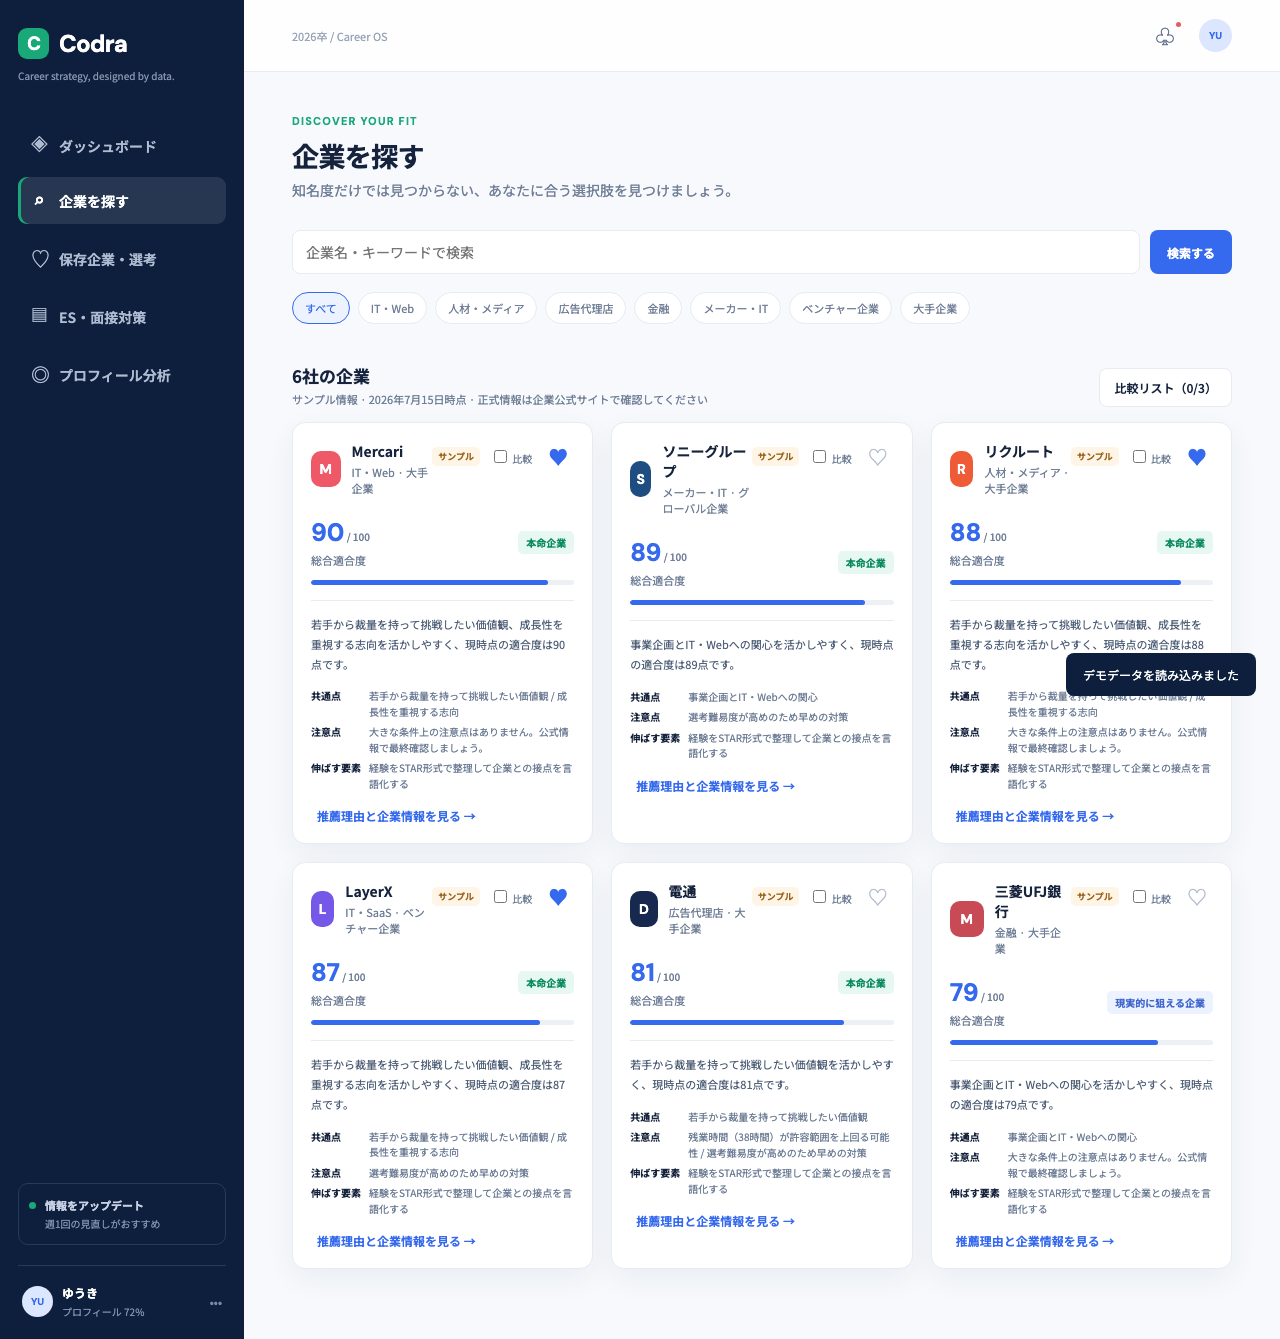
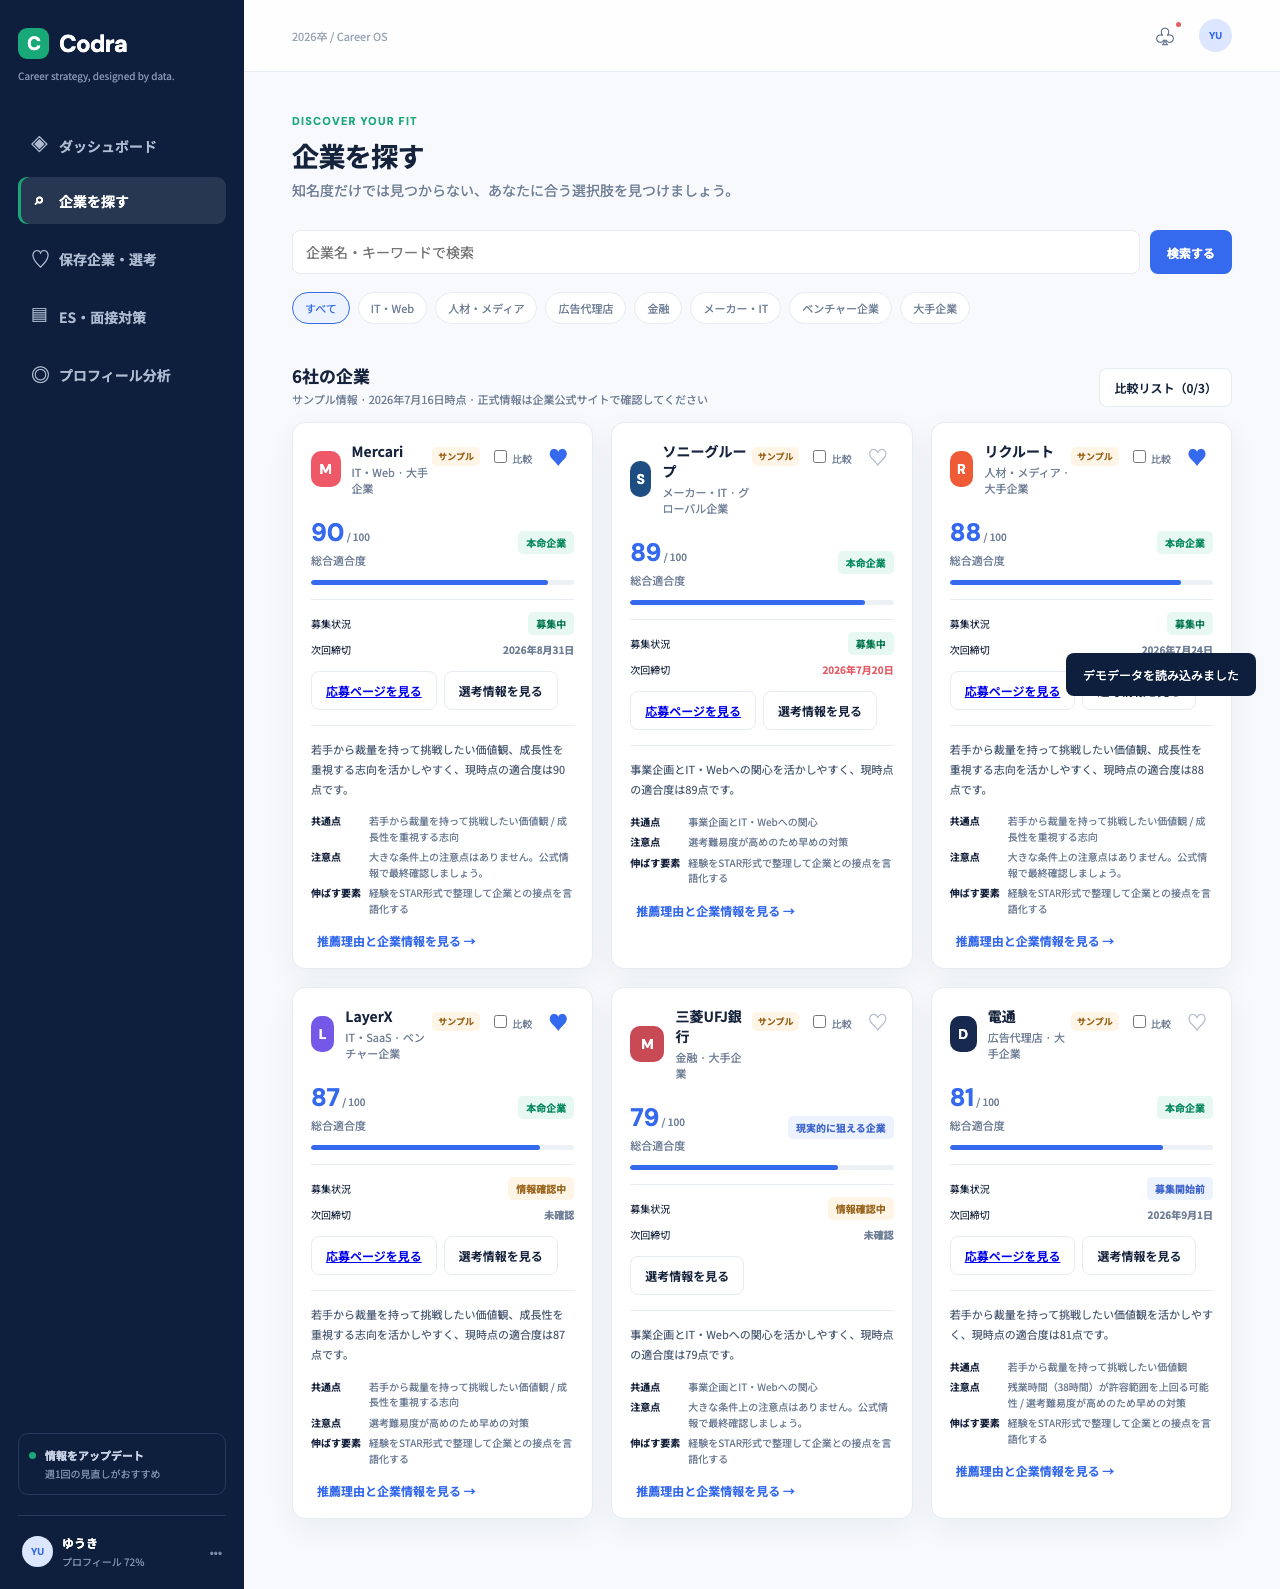
Fix profile navigation and add recruitment status

diff --git a/tests/recruitment.spec.js b/tests/recruitment.spec.js
@@ -1,0 +1,103 @@
+const { test, expect } = require('@playwright/test');
+
+async function openClean(page, profile = {}) {
+  await page.goto('/');
+  await page.evaluate(profileData => {
+    localStorage.clear();
+    if (profileData) localStorage.setItem('codra_profile', JSON.stringify({
+      registered: true,
+      liberal: '文系',
+      grade: '大学3年',
+      industries: ['IT・Web'],
+      jobTypes: ['事業企画'],
+      locations: ['東京'],
+      strengths: '課題を見つけて改善する力',
+      activities: '学生団体で業務改善',
+      ...profileData
+    }));
+  }, profile);
+  await page.reload();
+  await page.waitForLoadState('domcontentloaded');
+}
+
+test.describe('Codra profile, navigation, and recruitment journeys', () => {
+  test('profile opens, edits, saves, and survives reload', async ({ page }) => {
+    await openClean(page, { strengths: '保存前の強み' });
+    const profileNav = page.getByTestId('profile-nav');
+    await expect(profileNav).toHaveCount(1);
+    await profileNav.click();
+    await expect(page.getByRole('heading', { name: 'プロフィール分析' })).toBeVisible();
+    await page.locator('#edit-profile').click();
+    await page.locator('#profile-form').getByRole('button', { name: '次へ' }).click();
+    await page.locator('#profile-form').getByRole('button', { name: '次へ' }).click();
+    const strengths = page.locator('textarea[name="strengths"]');
+    await strengths.fill('ユーザーの声をもとに改善を進める力');
+    await page.getByRole('button', { name: 'あなたに合う企業を探す' }).click();
+    await expect(page.getByText('プロフィールを保存しました。推薦を更新しました')).toBeVisible();
+    await page.reload();
+    await profileNav.click();
+    await page.locator('#edit-profile').click();
+    await page.locator('#profile-form').getByRole('button', { name: '次へ' }).click();
+    await page.locator('#profile-form').getByRole('button', { name: '次へ' }).click();
+    await expect(page.locator('textarea[name="strengths"]')).toHaveValue('ユーザーの声をもとに改善を進める力');
+  });
+
+  test('mobile menu closes by toggle, overlay, Escape, and navigation', async ({ page }) => {
+    await page.setViewportSize({ width: 375, height: 800 });
+    await openClean(page);
+    const menu = page.getByTestId('mobile-menu');
+    const sidebar = page.locator('#main-sidebar');
+    const overlay = page.getByTestId('sidebar-overlay');
+    await menu.click();
+    await expect(sidebar).toHaveClass(/open/);
+    await expect(menu).toHaveAttribute('aria-expanded', 'true');
+    await menu.click();
+    await expect(sidebar).not.toHaveClass(/open/);
+    await expect(menu).toHaveAttribute('aria-expanded', 'false');
+    await menu.click();
+    await overlay.click({ position: { x: 350, y: 400 } });
+    await expect(sidebar).not.toHaveClass(/open/);
+    await menu.click();
+    await page.keyboard.press('Escape');
+    await expect(sidebar).not.toHaveClass(/open/);
+    await menu.click();
+    const discoverNav = sidebar.locator('button[data-view="discover"]');
+    await expect(discoverNav).toHaveCount(1);
+    await discoverNav.click();
+    await expect(sidebar).not.toHaveClass(/open/);
+  });
+
+  test('recruitment status appears on cards, detail, and dashboard deadlines', async ({ page }) => {
+    await openClean(page);
+    await page.getByRole('button', { name: '⌕ 企業を探す' }).click();
+    await expect(page.getByTestId('recruitment-card').first()).toBeVisible();
+    await expect(page.getByText('募集中').first()).toBeVisible();
+    const mercariCard = page.getByTestId('recruitment-card').filter({ hasText: 'Mercari' });
+    await expect(mercariCard).toHaveCount(1);
+    const recruitmentDetail = mercariCard.locator('button[data-recruitment-detail]');
+    await expect(recruitmentDetail).toHaveCount(1);
+    await recruitmentDetail.click();
+    await expect(page.getByRole('heading', { name: 'Mercari' })).toBeVisible();
+    await expect(page.locator('[data-tab="selection"]')).toHaveCount(1);
+    await page.locator('[data-tab="selection"]').click();
+    await expect(page.getByRole('heading', { name: '現在の募集状況' })).toBeVisible();
+    const applyLink = page.getByRole('link', { name: '応募ページを見る' });
+    await expect(applyLink).toBeVisible();
+    await expect(applyLink).toHaveAttribute('target', '_blank');
+    await expect(applyLink).toHaveAttribute('rel', 'noopener noreferrer');
+    await page.getByRole('button', { name: '◈ ダッシュボード' }).click();
+    await expect(page.getByText('企業募集：本選考').first()).toBeVisible();
+    await expect(page.getByText('企業募集中').first()).toBeVisible();
+  });
+
+  test('company without recruitment data shows a safe checking state', async ({ page }) => {
+    await openClean(page);
+    await page.getByRole('button', { name: '⌕ 企業を探す' }).click();
+    const mufgCard = page.getByTestId('recruitment-card').filter({ hasText: '三菱UFJ銀行' });
+    await expect(mufgCard).toHaveCount(1);
+    await mufgCard.locator('.detail-link').click();
+    await page.locator('[data-tab="selection"]').click();
+    await expect(page.getByText('情報確認中').first()).toBeVisible();
+    await expect(page.getByText('現在表示できる募集要項はありません。')).toBeVisible();
+  });
+});

diff --git a/recruitment.js b/recruitment.js
@@ -1,0 +1,96 @@
+(() => {
+  const today = () => new Date().toISOString().slice(0, 10);
+  const escapeHtml = value => String(value ?? '').replace(/[&<>'"]/g, char => ({'&':'&amp;','<':'&lt;','>':'&gt;',"'":'&#39;','"':'&quot;'}[char]));
+  const safeUrl = value => /^https?:\/\//i.test(String(value || '')) ? String(value) : '';
+  const urlLink = (url, label) => {
+    const href = safeUrl(url);
+    return href ? `<a class="secondary-btn" href="${escapeHtml(href)}" target="_blank" rel="noopener noreferrer">${escapeHtml(label)}</a>` : '';
+  };
+
+  const recruitmentData = {
+    mercari: {status:'open',label:'募集中',category:'本選考',deadline:'2026-08-31',nextDeadline:'2026-08-31',stages:['ES提出','適性検査','一次面接','最終面接'],applicationUrl:'https://example.com/codra-demo/mercari/apply',requirementsUrl:'https://example.com/codra-demo/mercari/requirements',officialRecruitUrl:'https://example.com/codra-demo/mercari/careers',sourceName:'企業公式採用ページ（サンプル）',sourceUrl:'https://example.com/codra-demo/mercari/careers',checkedAt:'2026-07-16',openings:[{name:'新卒総合職',category:'本選考',deadline:'2026-08-31'}]},
+    recruit: {status:'open',label:'募集中',category:'本選考',deadline:'2026-07-24',nextDeadline:'2026-07-24',stages:['ES提出','Webテスト','複数回面接','最終面接'],applicationUrl:'https://example.com/codra-demo/recruit/apply',requirementsUrl:'https://example.com/codra-demo/recruit/requirements',officialRecruitUrl:'https://example.com/codra-demo/recruit/careers',sourceName:'企業公式採用ページ（サンプル）',sourceUrl:'https://example.com/codra-demo/recruit/careers',checkedAt:'2026-07-16',openings:[{name:'ビジネス職',category:'本選考',deadline:'2026-07-24'}]},
+    layerx: {status:'checking',label:'情報確認中',category:'本選考',deadline:null,nextDeadline:null,stages:['エントリー','面接','最終面接'],applicationUrl:'https://example.com/codra-demo/layerx/apply',requirementsUrl:'https://example.com/codra-demo/layerx/requirements',officialRecruitUrl:'https://example.com/codra-demo/layerx/careers',sourceName:'サンプル情報（公式確認待ち）',sourceUrl:'https://example.com/codra-demo/layerx/careers',checkedAt:'2026-07-16',openings:[]},
+    dentsu: {status:'preopen',label:'募集開始前',category:'本選考',deadline:'2026-09-01',nextDeadline:'2026-09-01',stages:['エントリー','ES提出','面接'],applicationUrl:'https://example.com/codra-demo/dentsu/apply',requirementsUrl:'https://example.com/codra-demo/dentsu/requirements',officialRecruitUrl:'https://example.com/codra-demo/dentsu/careers',sourceName:'サンプル情報（募集開始前の想定）',sourceUrl:'https://example.com/codra-demo/dentsu/careers',checkedAt:'2026-07-16',openings:[{name:'ビジネス職',category:'本選考',deadline:'2026-09-01'}]},
+    sony: {status:'open',label:'募集中',category:'インターン',deadline:'2026-07-20',nextDeadline:'2026-07-20',stages:['エントリー','ES提出','適性検査'],applicationUrl:'https://example.com/codra-demo/sony/apply',requirementsUrl:'https://example.com/codra-demo/sony/requirements',officialRecruitUrl:'https://example.com/codra-demo/sony/careers',sourceName:'サンプル情報（公式確認待ち）',sourceUrl:'https://example.com/codra-demo/sony/careers',checkedAt:'2026-07-16',openings:[{name:'夏季インターン',category:'インターン',deadline:'2026-07-20'}]}
+  };
+  Object.entries(recruitmentData).forEach(([id, recruitment]) => { const target = company(id); if (target) target.recruitment = recruitment; });
+
+  const normalizedRecruitment = c => {
+    const data = c?.recruitment;
+    if (!data || typeof data !== 'object') return {status:'checking',label:'情報確認中',category:'その他',deadline:null,nextDeadline:null,stages:[],openings:[],checkedAt:null};
+    const deadline = data.deadline && data.deadline < today() ? null : data.deadline;
+    if (data.deadline && data.deadline < today()) return {...data,status:'closed',label:'受付終了',deadline:data.deadline,openings:[]};
+    return {...data,deadline};
+  };
+  const daysUntil = date => date ? Math.ceil((new Date(`${date}T23:59:59`) - new Date()) / 86400000) : null;
+  const deadlineText = date => date ? new Date(`${date}T00:00:00`).toLocaleDateString('ja-JP',{year:'numeric',month:'long',day:'numeric'}) : '未確認';
+  const recruitmentTone = status => status === 'open' ? 'open' : status === 'closed' ? 'closed' : status === 'preopen' ? 'preopen' : 'checking';
+  const recruitmentBadge = c => { const r = normalizedRecruitment(c); return `<span class="tag recruitment-badge ${recruitmentTone(r.status)}" data-recruitment-status="${escapeHtml(r.status)}">${escapeHtml(r.label)}</span>`; };
+  const deadlineClass = date => daysUntil(date) !== null && daysUntil(date) <= 7 ? 'deadline-warning' : 'deadline-normal';
+  const deadlineValue = date => date ? `<span class="${deadlineClass(date)}">${escapeHtml(deadlineText(date))}</span>` : '<span class="deadline-normal">情報確認中</span>';
+
+  function recruitmentMini(c) {
+    const r = normalizedRecruitment(c);
+    return `<div class="recruitment-mini"><div class="recruitment-mini-row"><span>募集状況</span>${recruitmentBadge(c)}</div><div class="recruitment-mini-row"><span>次回締切</span><span class="${deadlineClass(r.nextDeadline)}">${r.nextDeadline ? escapeHtml(deadlineText(r.nextDeadline)) : '未確認'}</span></div><div class="recruitment-actions">${urlLink(r.applicationUrl,'応募ページを見る')}<button class="secondary-btn" data-recruitment-detail="${escapeHtml(c.id)}">選考情報を見る</button></div></div>`;
+  }
+
+  function recruitmentSelectionHtml(c) {
+    const r = normalizedRecruitment(c);
+    const openings = Array.isArray(r.openings) ? r.openings : [];
+    return `<div class="grid grid-2"><div class="card recruitment-summary"><div class="recruitment-header"><h3>現在の募集状況</h3>${recruitmentBadge(c)}</div><div class="recruitment-meta"><div><small>募集状況</small><strong>${escapeHtml(r.label)}</strong></div><div><small>選考区分</small><strong>${escapeHtml(r.category)}</strong></div><div><small>応募締切</small><strong>${deadlineValue(r.deadline)}</strong></div><div><small>次回締切</small><strong>${deadlineValue(r.nextDeadline)}</strong></div></div>${openings.length ? `<h3>募集中の選考一覧</h3><div class="selection-list">${openings.map(item=>`<div class="selection-row"><div><strong>${escapeHtml(item.name || '選考情報')}</strong><small>${escapeHtml(item.category || r.category)} · 締切 ${escapeHtml(deadlineText(item.deadline))}</small></div>${recruitmentBadge(c)}</div>`).join('')}</div>` : `<div class="recruitment-empty">現在表示できる募集要項はありません。情報確認中のため、公式採用ページで最新情報を確認してください。</div>`}</div><div class="card recruitment-summary"><h3>選考ステップ</h3>${r.stages.length ? `<div class="recruitment-stages">${r.stages.map((stage,index)=>`<span class="chip">${index+1}. ${escapeHtml(stage)}</span>`).join('')}</div>` : '<div class="recruitment-empty">選考ステップは情報確認中です。</div>'}<h3 style="margin-top:24px">応募・公式リンク</h3><div class="recruitment-links">${urlLink(r.applicationUrl,'応募ページを見る')}${urlLink(r.requirementsUrl,'募集要項を見る')}${urlLink(r.officialRecruitUrl,'企業公式採用ページ')}</div><div class="recruitment-source"><strong>情報ソース：</strong>${escapeHtml(r.sourceName || '確認中')}<br><strong>情報の確認日：</strong>${escapeHtml(r.checkedAt || '未確認')}<br><span>リンク先はデモ用サンプルです。実際の応募はできません。</span></div></div></div><div class="notice">企業の募集状況はサンプル情報です。締切・募集条件は変わる可能性があるため、応募前に必ず企業公式サイトで最新情報を確認してください。</div>`;
+  }
+
+  function codraRecruitmentCard(c) {
+    const s = c.scores || scores(c), r = c.rec || recommendation(c);
+    return `<article class="card company-card" data-testid="recruitment-card" data-recruitment-card="${escapeHtml(c.id)}"><div class="company-top"><div class="company-brand">${logo(c)}<div><div class="company-name">${escapeHtml(c.name)}</div><div class="company-meta">${escapeHtml(c.category)} · ${escapeHtml(c.companySize)}</div></div></div><div class="card-actions">${dataBadge('sample')}<label class="compare-check"><input type="checkbox" data-compare="${escapeHtml(c.id)}" ${state.compareIds.includes(c.id)?'checked':''}/> 比較</label><button class="save-btn ${state.saved.has(c.id)?'saved':''}" data-save="${escapeHtml(c.id)}" aria-label="${state.saved.has(c.id)?'保存を解除':'企業を保存'}">${state.saved.has(c.id)?'♥':'♡'}</button></div></div><div class="score-row"><div><div class="score">${s.total}<small> / 100</small></div><div class="company-meta">総合適合度</div></div><span class="tag ${s.total>=80?'tag-green':s.total>=60?'tag-blue':'tag-amber'}">${escapeHtml(c.classification||classify(s.total))}</span></div><div class="score-bar"><i style="width:${s.total}%"></i></div>${recruitmentMini(c)}<p class="reason">${escapeHtml(r.main)}</p><div class="recommend-details"><strong>共通点</strong><span>${escapeHtml(r.matches.join(' / '))}</span><strong>注意点</strong><span>${escapeHtml(r.cautions.join(' / '))}</span><strong>伸ばす要素</strong><span>${escapeHtml(r.next.join(' / '))}</span></div><button class="link-btn detail-link" data-company="${escapeHtml(c.id)}">推薦理由と企業情報を見る →</button></article>`;
+  }
+
+  const recruitmentPriority = c => { const status = normalizedRecruitment(c).status; return status === 'open' ? 0 : status === 'checking' ? 1 : status === 'preopen' ? 2 : 3; };
+  const rankedWithRecruitment = () => ranked().sort((a,b) => recruitmentPriority(a)-recruitmentPriority(b) || b.scores.total-a.scores.total);
+  const upcomingRecruitments = () => rankedWithRecruitment().filter(c => ['open','preopen'].includes(normalizedRecruitment(c).status) && normalizedRecruitment(c).nextDeadline).sort((a,b) => normalizedRecruitment(a).nextDeadline.localeCompare(normalizedRecruitment(b).nextDeadline));
+
+  function codraDashboard() {
+    const list = rankedWithRecruitment(), pc = completion(), first = !state.profile.registered, recruitList = upcomingRecruitments();
+    const appTasks = state.apps.map((a,i) => { const c = company(a.company); return c ? `<div class="task ${state.doneTasks.has(i)?'done':''}"><button class="task-check" data-task="${i}">${state.doneTasks.has(i)?'✓':''}</button><div><div class="task-title">${escapeHtml(a.next)}</div><div class="task-sub">${escapeHtml(c.name)} · あなたの選考 · 締切 ${escapeHtml(a.deadline || '未設定')}</div></div><span class="task-priority">優先度 ${escapeHtml(a.priority || '中')}</span></div>` : ''; }).join('');
+    const recruitmentTasks = recruitList.slice(0,3).map(c => { const r = normalizedRecruitment(c); return `<div class="task"><span class="task-check" aria-hidden="true">!</span><div><div class="task-title">${escapeHtml(c.name)}の${escapeHtml(r.category)}に応募準備</div><div class="task-sub">企業募集 · 次回締切 ${escapeHtml(deadlineText(r.nextDeadline))}</div></div><span class="task-priority ${deadlineClass(r.nextDeadline)}">企業募集中</span></div>`; }).join('');
+    const deadlineRows = recruitList.slice(0,4).map(c => { const r = normalizedRecruitment(c); return `<div class="deadline"><div><div class="deadline-title">${escapeHtml(c.name)}</div><div class="deadline-company">企業募集：${escapeHtml(r.category)} ${recruitmentBadge(c)}</div></div><div class="date ${daysUntil(r.nextDeadline) <= 7 ? '' : 'normal'}">${escapeHtml(r.nextDeadline.slice(5).replace('-','/'))}<small> 締切</small></div></div>`; }).join('');
+    layout(`<section class="hero"><div><div class="eyebrow">Your career strategy</div><h1>${first?'Codraを始めましょう。':'こんにちは、ゆうきさん。'}</h1><p>${first?'プロフィールを登録すると、あなた向けの企業と準備方法を提案できます。':'今日も、自分らしいキャリアを一歩ずつ設計しましょう。'}</p></div><div class="hero-side"><div><div class="stat-label">プロフィール完成度</div><div class="stat-value">${pc}<small>%</small></div></div><div class="progress-ring" style="background:conic-gradient(var(--green) ${pc}%,#e8edf3 0)"><span>${pc}%</span></div></div></section>${first?emptyStart():''}${readinessHtml()}<div class="notice source-notice">企業情報・選考情報はサンプルです。応募や面接準備の前に、必ず企業公式サイトで最新情報を確認してください。</div><div class="grid grid-4"><div class="card stat-card"><div class="stat-label">就活進捗率</div><div class="stat-value">38<small>%</small></div><div class="stat-foot">↑ 先週より 8%</div></div><div class="card stat-card"><div class="stat-label">保存した企業</div><div class="stat-value">${state.saved.size}<small> 社</small></div><div class="stat-foot">${state.saved.size?'自分のデータ':'まず企業を保存しましょう'}</div></div><div class="card stat-card"><div class="stat-label">選考中の企業</div><div class="stat-value">${state.apps.length}<small> 社</small></div><div class="stat-foot">${state.apps.length?'次のアクションがあります':'応募後に登録できます'}</div></div><div class="card stat-card"><div class="stat-label">ES・面接対策</div><div class="stat-value">${state.esDocs.length+userCounts().answers}<small> 件</small></div><div class="stat-foot">自分のデータ</div></div></div><div class="grid grid-2"><div><div class="section-head"><div><h2>今日やるべきこと</h2><p>あなたの選考状況と企業募集の締切を分けて表示</p></div><button class="link-btn" data-view="saved">すべて見る</button></div><div class="card">${appTasks}${recruitmentTasks || '<div class="empty compact-empty"><strong>企業募集の締切はありません</strong>企業を探す画面で最新の募集情報を確認できます。</div>'}</div></div><div><div class="section-head"><div><h2>締切が近い企業</h2><p>7日以内の締切は注意表示</p></div><button class="link-btn" data-view="saved">選考管理</button></div><div class="card">${deadlineRows || '<div class="empty compact-empty"><strong>締切情報はありません</strong>情報確認中の企業は公式サイトで確認してください。</div>'}</div></div></div><div class="section-head"><div><h2>あなた向けおすすめ企業</h2><p>${first?'プロフィール作成後にあなた向けへ更新されます':'プロフィールと重視度から再計算した現時点の仮説'}</p></div><div class="section-actions"><button class="secondary-btn" id="recalculate">↻ 再計算する</button><button class="link-btn" data-view="discover">企業を探す →</button></div></div><div class="grid grid-3">${list.slice(0,3).map(codraRecruitmentCard).join('')}</div></div>`);
+    if (first) app.insertAdjacentHTML('afterbegin', '<div class="welcome-card"><div class="eyebrow">Welcome to Codra</div><h2>あなたの就活軸から、狙う企業と準備タスクを整理します。</h2><div class="value-points"><span><b>01</b>自分に合う企業が分かる</span><span><b>02</b>選考準備の抜け漏れが減る</span><span><b>03</b>ESと面接の改善点が分かる</span></div><div class="section-actions"><button class="primary-btn" data-start-onboarding>プロフィールを作成する</button><button class="secondary-btn" id="start-demo">デモを始める</button></div></div>');
+    const guide = typeof demoGuide === 'function' ? demoGuide() : '';
+    if (guide) app.insertAdjacentHTML('afterbegin', guide);
+    bind();
+  }
+
+  function codraDiscover() {
+    const list = rankedWithRecruitment().filter(c => (state.filter === 'すべて' || c.category.includes(state.filter) || c.companySize.includes(state.filter)) && c.name.toLowerCase().includes(state.query.toLowerCase()));
+    layout(`<div class="eyebrow">Discover your fit</div><h1 class="page-title">企業を探す</h1><p class="page-desc">知名度だけでは見つからない、あなたに合う選択肢を見つけましょう。</p><div class="searchbar"><input class="input" id="company-search" value="${escapeHtml(state.query)}" placeholder="企業名・キーワードで検索"/><button class="primary-btn" id="search-btn">検索する</button></div><div class="filter-row">${['すべて','IT・Web','人材・メディア','広告代理店','金融','メーカー・IT','ベンチャー企業','大手企業'].map(f=>`<button class="filter-pill ${state.filter===f?'active':''}" data-filter="${escapeHtml(f)}">${escapeHtml(f)}</button>`).join('')}</div><div class="section-head"><div><h2>${list.length}社の企業</h2><p>サンプル情報 · 2026年7月16日時点 · 正式情報は企業公式サイトで確認してください</p></div><button class="secondary-btn" id="compare-btn">比較リスト（${state.compareIds.length}/3）</button></div><div class="grid grid-3">${list.length?list.map(codraRecruitmentCard).join(''):`<div class="card empty"><strong>条件に一致する企業がありません</strong>検索条件を少しゆるめてみましょう。</div>`}</div>`);
+  }
+
+  function codraDetail() {
+    const c = company(state.companyId);
+    if (!c) { state.view = 'discover'; return render(); }
+    const s = scores(c), r = recommendation(c,s);
+    let body;
+    if (state.tab === 'why') body = `<div class="card"><h3>なぜおすすめなのか</h3><p class="reason">${escapeHtml(r.main)}</p><h3>あなたとの共通点</h3><ul class="bullet-list">${r.matches.map(x=>`<li>${escapeHtml(x)}</li>`).join('')}</ul><h3>注意すべき点</h3><ul class="bullet-list">${r.cautions.map(x=>`<li>${escapeHtml(x)}</li>`).join('')}</ul><h3>内定に向けて伸ばす要素</h3><ul class="bullet-list">${r.next.map(x=>`<li>${escapeHtml(x)}</li>`).join('')}</ul></div>`;
+    else if (state.tab === 'selection') body = recruitmentSelectionHtml(c);
+    else if (state.tab === 'interview') body = `<div class="card"><h3>面接対策</h3><p class="reason">${escapeHtml(c.name)}向けの想定質問と回答メモを準備できます。</p><button class="primary-btn" data-interview-company="${escapeHtml(c.id)}">面接対策を開く</button></div>`;
+    else if (state.tab === 'work') body = `<div class="card"><h3>働き方・キャリア</h3><div class="table-card"><table class="compare-table"><tbody>${[['勤務地',c.locations.join(' / ')],['身につくスキル',c.requiredSkills.join(' / ')],['3年後のキャリア','プロジェクトリード / 専門性の確立'],['5年後のキャリア','事業責任者 / 新規事業への挑戦']].map(x=>`<tr><td>${escapeHtml(x[0])}</td><td>${escapeHtml(x[1])}</td></tr>`).join('')}</tbody></table></div></div>`;
+    else body = `<div class="grid grid-2"><div class="card"><h3>事業概要</h3><p class="reason">${escapeHtml(c.detail)}</p><div class="chip-list"><span class="chip">${escapeHtml(c.locations.join(' / '))}</span><span class="chip">初任給 ${escapeHtml(c.salary)}万円〜</span></div></div><div class="card"><h3>あなたとの適合度</h3><div class="metric-list" style="margin-top:18px">${[['業界適合度',s.industry],['職種適合度',s.job],['働き方適合度',s.work],['スキル適合度',s.skill]].map(([x,v])=>`<div class="metric"><span>${escapeHtml(x)}</span><div class="score-bar"><i style="width:${v}%"></i></div><b>${v}</b></div>`).join('')}</div></div></div>`;
+    const recruitment = normalizedRecruitment(c);
+    layout(`<button class="back" data-view="discover">← 企業を探すへ戻る</button><div class="detail-head">${logo(c)}<div><h1>${escapeHtml(c.name)}</h1><div class="company-meta">${escapeHtml(c.category)} · サンプル企業情報</div></div><button class="primary-btn" data-save="${escapeHtml(c.id)}">${state.saved.has(c.id)?'保存済み':'企業を保存'}</button></div><div class="notice">${dataBadge('sample')} 企業・選考情報はサンプルです。情報確認日：${escapeHtml(recruitment.checkedAt || '未確認')}。応募前に公式サイトで最新情報を確認してください。</div><div class="tabs">${[['overview','概要'],['why','おすすめ理由'],['work','事業・職種 / 働き方'],['selection','選考情報'],['interview','面接対策']].map(([t,x])=>`<button class="tab ${state.tab===t?'active':''}" data-tab="${t}">${x}</button>`).join('')}</div>${body}`);
+  }
+
+  const originalBind = window.bind;
+  window.bind = function() {
+    originalBind();
+    document.querySelectorAll('[data-recruitment-detail]').forEach(button => button.onclick = () => { state.companyId = button.dataset.recruitmentDetail; state.view = 'detail'; state.tab = 'selection'; render(); });
+  };
+  window.card = codraRecruitmentCard;
+  window.dashboard = codraDashboard;
+  window.discover = codraDiscover;
+  window.detail = codraDetail;
+
+  // Refresh once so the first page also receives recruitment fields.
+  if (typeof window.render === 'function') window.render();
+})();

diff --git a/navigation.js b/navigation.js
@@ -1,0 +1,38 @@
+(() => {
+  const sidebar = document.querySelector('#main-sidebar');
+  const toggle = document.querySelector('.mobile-menu');
+  const overlay = document.querySelector('#sidebar-overlay');
+  if (!sidebar || !toggle || !overlay) return;
+
+  const setOpen = open => {
+    sidebar.classList.toggle('open', open);
+    overlay.classList.toggle('open', open);
+    toggle.setAttribute('aria-expanded', String(open));
+    toggle.setAttribute('aria-label', open ? 'メニューを閉じる' : 'メニューを開く');
+    sidebar.setAttribute('aria-hidden', String(!open && window.matchMedia('(max-width: 650px)').matches));
+    overlay.setAttribute('aria-hidden', String(!open));
+    document.body.classList.toggle('menu-open', open);
+  };
+
+  // Capture the event before the legacy app.js listener so repeated renders cannot add duplicate toggles.
+  toggle.addEventListener('click', event => {
+    event.preventDefault();
+    event.stopImmediatePropagation();
+    setOpen(!sidebar.classList.contains('open'));
+  }, true);
+  overlay.addEventListener('click', () => setOpen(false));
+  sidebar.addEventListener('click', event => {
+    if (event.target.closest('[data-view]')) setOpen(false);
+  });
+  document.addEventListener('keydown', event => {
+    if (event.key === 'Escape' && sidebar.classList.contains('open')) {
+      setOpen(false);
+      toggle.focus();
+    }
+  });
+  window.addEventListener('resize', () => {
+    if (!window.matchMedia('(max-width: 650px)').matches) setOpen(false);
+    else sidebar.setAttribute('aria-hidden', String(!sidebar.classList.contains('open')));
+  });
+  setOpen(false);
+})();

diff --git a/index.html b/index.html
@@ -15,10 +15,11 @@
   <link rel="stylesheet" href="ai.css" />
   <link rel="stylesheet" href="migration.css" />
   <link rel="stylesheet" href="demo.css" />
+  <link rel="stylesheet" href="recruitment.css" />
 </head>
 <body>
   <div class="app-shell">
-    <aside class="sidebar" aria-label="メインナビゲーション">
+    <aside class="sidebar" id="main-sidebar" aria-label="メインナビゲーション" aria-hidden="false">
       <div class="brand"><span class="brand-mark">C</span><span>Codra</span></div>
       <p class="brand-sub">Career strategy, designed by data.</p>
       <nav class="nav-list">
@@ -26,7 +27,7 @@
         <button class="nav-item" data-view="discover"><span>⌕</span>企業を探す</button>
         <button class="nav-item" data-view="saved"><span>♡</span>保存企業・選考</button>
         <button class="nav-item" data-view="documents"><span>▤</span>ES・面接対策</button>
-        <button class="nav-item" data-view="profile"><span>◎</span>プロフィール分析</button>
+        <button class="nav-item" data-view="profile" data-testid="profile-nav"><span>◎</span>プロフィール分析</button>
       </nav>
       <div class="sidebar-bottom">
         <div class="sidebar-note"><span class="status-dot"></span><div><strong>情報をアップデート</strong><small>週1回の見直しがおすすめ</small></div></div>
@@ -34,12 +35,15 @@
       </div>
     </aside>
     <main class="main-content">
-      <header class="topbar"><button class="mobile-menu" aria-label="メニュー">☰</button><div class="breadcrumb">2026卒 / Career OS</div><div class="top-actions"><button class="icon-btn" aria-label="通知">♧<i></i></button><button class="avatar top-avatar">YU</button></div></header>
+      <header class="topbar"><button class="mobile-menu" data-testid="mobile-menu" aria-label="メニューを開く" aria-expanded="false" aria-controls="main-sidebar">☰</button><div class="breadcrumb">2026卒 / Career OS</div><div class="top-actions"><button class="icon-btn" aria-label="通知">♧<i></i></button><button class="avatar top-avatar" data-view="profile" aria-label="プロフィールを開く">YU</button></div></header>
       <div id="app" class="page-wrap"></div>
     </main>
   </div>
+  <div class="sidebar-overlay" id="sidebar-overlay" data-testid="sidebar-overlay" aria-hidden="true"></div>
   <div id="toast" class="toast" role="status"></div>
   <script src="app.js"></script>
+  <script src="recruitment.js"></script>
+  <script src="navigation.js"></script>
   <script src="runtime-hooks.js"></script>
 </body>
 </html>

diff --git a/recruitment.css b/recruitment.css
@@ -1,0 +1,2 @@
+.recruitment-summary{display:grid;gap:13px}.recruitment-header{display:flex;align-items:center;justify-content:space-between;gap:12px}.recruitment-badge{font-size:10px}.recruitment-badge.open{background:var(--green-soft);color:#087851}.recruitment-badge.closed{background:#f1f3f6;color:#6f7d91}.recruitment-badge.checking{background:var(--amber-soft);color:#9b671f}.recruitment-badge.preopen{background:var(--blue-soft);color:#4167cd}.deadline-warning{color:var(--red);font-weight:700}.deadline-normal{color:var(--muted)}.recruitment-meta{display:grid;grid-template-columns:repeat(2,1fr);gap:8px}.recruitment-meta div{background:#f8faff;border:1px solid var(--line);border-radius:8px;padding:9px}.recruitment-meta small,.recruitment-meta strong{display:block}.recruitment-meta small{font-size:10px;color:var(--muted)}.recruitment-meta strong{font-size:12px;margin-top:4px}.recruitment-stages{display:flex;flex-wrap:wrap;gap:6px;margin-top:2px}.recruitment-links{display:flex;flex-wrap:wrap;gap:8px}.recruitment-links a,.recruitment-links button{font-size:11px}.recruitment-source{border-top:1px solid var(--line);padding-top:12px;color:var(--muted);font-size:10px;line-height:1.6}.recruitment-actions{display:flex;gap:7px;flex-wrap:wrap;margin-top:14px}.company-card .recruitment-mini{margin-top:14px;padding-top:12px;border-top:1px solid var(--line)}.recruitment-mini-row{display:flex;align-items:center;justify-content:space-between;gap:8px;font-size:10px}.recruitment-mini-row+.recruitment-mini-row{margin-top:7px}.recruitment-mini-row span:last-child{font-weight:700}.recruitment-empty{padding:22px 0;color:var(--muted);font-size:11px}.selection-list{display:grid;gap:9px}.selection-row{display:flex;align-items:start;justify-content:space-between;gap:12px;border:1px solid var(--line);border-radius:9px;padding:12px}.selection-row strong{font-size:12px}.selection-row small{display:block;color:var(--muted);font-size:10px;margin-top:4px}.sidebar-overlay{display:none}.menu-open{overflow:hidden}@media(max-width:650px){.sidebar-overlay{display:block;position:fixed;inset:0;background:rgba(13,31,60,.35);opacity:0;pointer-events:none;transition:.2s;z-index:3}.sidebar-overlay.open{opacity:1;pointer-events:auto}.recruitment-meta{grid-template-columns:1fr}.recruitment-actions{display:grid;grid-template-columns:1fr}.recruitment-actions a,.recruitment-actions button{width:100%;min-height:42px}.selection-row{display:block}.selection-row .tag{margin-top:9px}}
+.mobile-menu{position:relative;z-index:6}@media(max-width:650px){.topbar{position:relative;z-index:5}}

diff --git a/README.md b/README.md
@@ -44,6 +44,7 @@ python3 -m http.server 4173
 - 面接対策：企業別の想定質問、回答メモ、改善ポイント
 - データ管理：JSONエクスポート・インポート、リセット、Supabase移行プレビュー
 - レスポンシブUI：デスクトップとスマートフォンに対応
+- 現在募集中の選考情報：募集状況、締切、選考ステップ、応募・公式リンクを表示
 
 ## スクリーンショット
 
@@ -172,6 +173,21 @@ npm run screenshots
 
 API接続予定モードでは、フロントから設定したサーバー側プロキシへ送信する構造です。APIキー入力欄はなく、ブラウザやlocalStorageへAPIキーを保存しません。
 
+## 募集状況の表示仕様
+
+企業カードと企業詳細の「選考情報」タブでは、企業側の募集状況を以下の区分で表示します。
+
+- `募集中`：サンプルの募集情報があり、締切が過ぎていない状態
+- `受付終了`：締切を過ぎた募集情報
+- `募集開始前`：将来の募集を想定した状態
+- `情報確認中`：募集情報がない、または公式確認が必要な状態
+
+あわせて、選考区分、応募締切、次回締切、選考ステップ、応募ページ、募集要項、企業公式採用ページ、情報ソース、確認日を表示します。7日以内の締切は注意色で表示します。リンク先はデモ用サンプルで、実際の応募には使えません。
+
+企業情報・選考情報は2026年7月16日時点のサンプルです。古い可能性があるため、応募前に必ず企業公式サイトで最新情報を確認してください。
+
+企業の募集状況と、ユーザー自身の選考状況は別の情報です。前者は「募集中」「受付終了」など企業側の状態、後者は`codra_apps`に保存された「応募予定」「ES提出済み」「面接」などの自分の進捗を表します。両者を混同しないよう、ダッシュボードでも「企業募集」と「あなたの選考」を分けて表示します。
+
 主なクライアント関数：
 
 - `getAiSettings()` / `saveAiSettings()`
@@ -208,9 +224,13 @@ Codra/
 ├── ai.css                  # AIフィードバックUI
 ├── migration.css           # データ移行UI
 ├── demo.css                # デモUI
+├── recruitment.css         # 募集状況・選考情報UI
+├── recruitment.js          # 募集データと表示ロジック
+├── navigation.js            # モバイルメニュー制御
 ├── package.json            # Playwright実行設定
 ├── playwright.config.js    # E2E設定とHTTPサーバー
 ├── tests/codra.spec.js     # 主要導線のE2E
+├── tests/recruitment.spec.js # プロフィール、メニュー、募集情報E2E
 ├── tests/screenshots.spec.js # README用スクリーンショット生成
 ├── screenshots/            # README用画面例
 ├── RELEASE_CHECKLIST.md    # 配布前チェックリスト